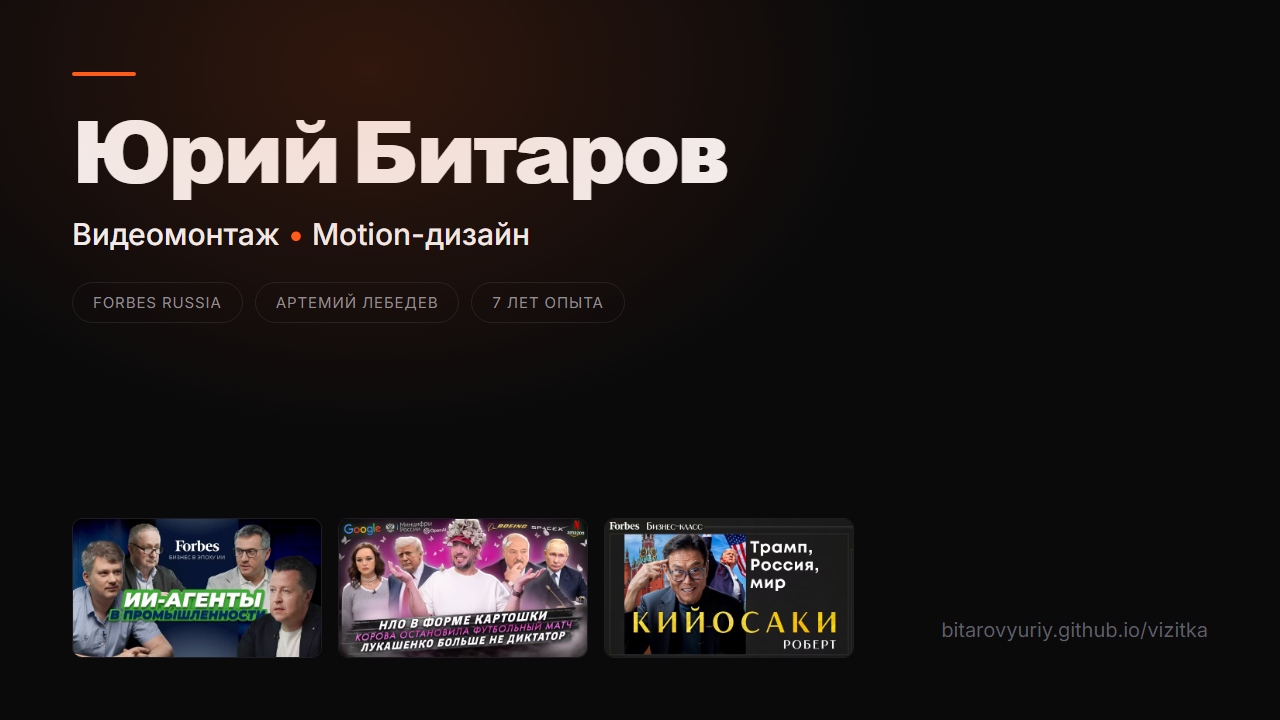
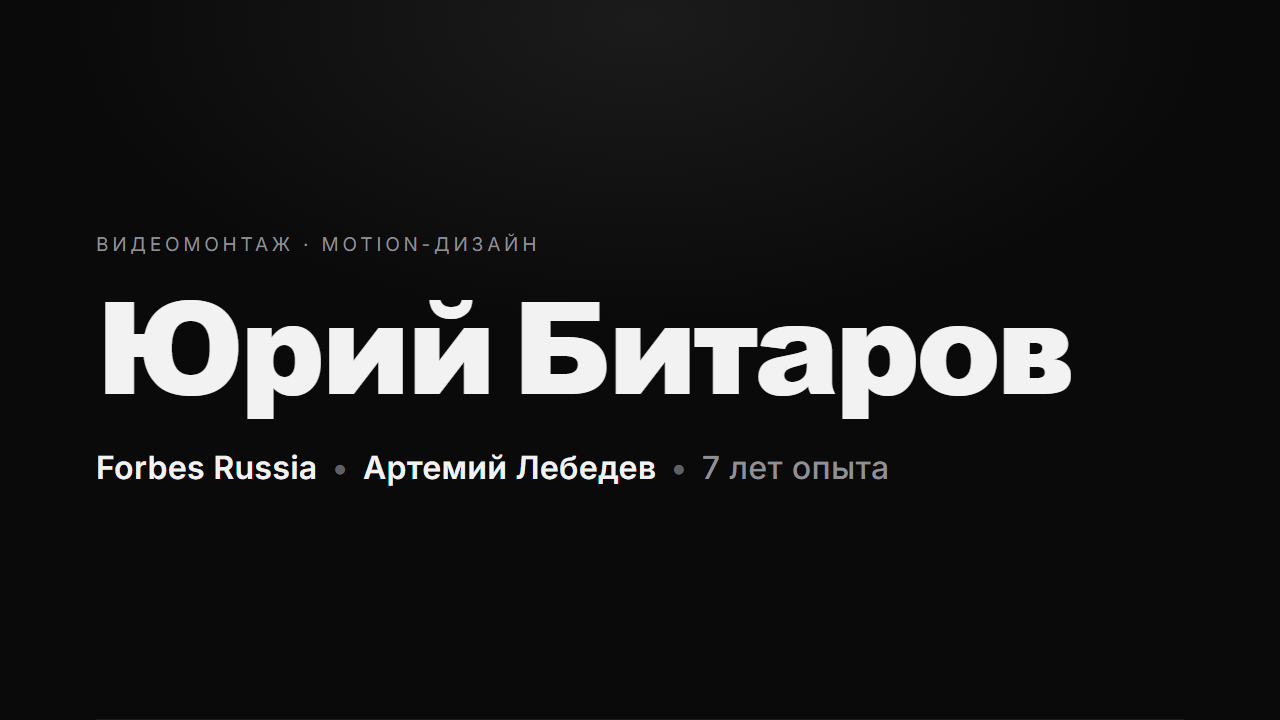
Монохром, секция «Проекты» вместо «Работы», убраны блок «О себе» и строка «Монтирую всё»

diff --git a/index.html b/index.html
@@ -31,14 +31,13 @@
       <div class="hero__text">
         <h1 class="hero__title">Юрий Битаров</h1>
         <p class="hero__roles">Видеомонтаж <span class="dot">•</span> Motion-дизайн</p>
-        <p class="hero__lead">Монтирую всё</p>
         <ul class="hero__facts">
           <li>Forbes Russia</li>
           <li>Артемий Лебедев</li>
           <li>7 лет опыта</li>
         </ul>
         <div class="hero__cta">
-          <a class="btn btn--primary" href="#portfolio"><i class="fa-solid fa-play"></i> Смотреть работы</a>
+          <a class="btn btn--primary" href="#portfolio"><i class="fa-solid fa-play"></i> Смотреть проекты</a>
           <a class="btn btn--ghost" href="#contacts"><i class="fa-solid fa-paper-plane"></i> Связаться</a>
         </div>
       </div>
@@ -46,51 +45,31 @@
       <div class="hero__media">
         <div class="showcase" id="showcase">
           <div class="showcase__stage" id="showcaseStage"></div>
-          <button class="showcase__arrow showcase__arrow--prev" id="showcasePrev" aria-label="Предыдущая работа"><i class="fa-solid fa-chevron-left"></i></button>
-          <button class="showcase__arrow showcase__arrow--next" id="showcaseNext" aria-label="Следующая работа"><i class="fa-solid fa-chevron-right"></i></button>
+          <button class="showcase__arrow showcase__arrow--prev" id="showcasePrev" aria-label="Предыдущий проект"><i class="fa-solid fa-chevron-left"></i></button>
+          <button class="showcase__arrow showcase__arrow--next" id="showcaseNext" aria-label="Следующий проект"><i class="fa-solid fa-chevron-right"></i></button>
           <div class="showcase__dots" id="showcaseDots"></div>
         </div>
       </div>
     </div>
   </header>
 
-  <section class="section about" id="about">
-    <div class="container">
-      <div class="section__head">
-        <h2 class="section__title">О себе</h2>
-      </div>
-      <div class="about__grid">
-        <div class="about__text">
-          <p>Привет! Я <strong>Юрий</strong> — видеомонтажер и motion-дизайнер. Работаю с разными жанрами: музыкальные клипы, рекламные ролики, документальные фильмы, подкасты и интервью.</p>
-          <p>Монтирую для <strong>Forbes Russia</strong> и <strong>Артемия Лебедева</strong>. Веду проект целиком: собираю структуру, чищу звук, делаю графику, титры и цветокоррекцию.</p>
-        </div>
-        <ul class="tools">
-          <li><i class="fa-solid fa-clapperboard"></i> <span>Монтаж интервью и подкастов</span></li>
-          <li><i class="fa-solid fa-wand-magic-sparkles"></i> <span>Shorts, Reels и TikTok</span></li>
-          <li><i class="fa-solid fa-palette"></i> <span>Motion-графика и титры</span></li>
-          <li><i class="fa-solid fa-volume-high"></i> <span>Sound design и чистка звука</span></li>
-        </ul>
-      </div>
-    </div>
-  </section>
-
   <section class="section portfolio" id="portfolio">
     <div class="container">
       <div class="section__head">
-        <h2 class="section__title">Работы</h2>
+        <h2 class="section__title">Проекты</h2>
         <p class="section__note">Forbes Russia, выпуски Артемия Лебедева, интервью и короткие форматы</p>
       </div>
 
       <div class="grid-loader" id="gridLoader">
         <div class="spinner"></div>
-        <p>Загрузка работ...</p>
+        <p>Загрузка проектов...</p>
       </div>
 
       <div class="video-grid" id="videoGrid"></div>
       <p class="grid-message" id="gridMessage" hidden></p>
 
       <noscript>
-        <p class="grid-message">Для показа работ нужен включенный JavaScript: видео лежат в <a href="https://vkvideo.ru/@lebedev">выпусках Лебедева</a> и на <a href="https://www.youtube.com/@ForbesRussia">канале Forbes Russia</a>.</p>
+        <p class="grid-message">Для показа проектов нужен включенный JavaScript: видео лежат в <a href="https://vkvideo.ru/@lebedev">выпусках Лебедева</a> и на <a href="https://www.youtube.com/@ForbesRussia">канале Forbes Russia</a>.</p>
       </noscript>
     </div>
   </section>

diff --git a/style.css b/style.css
@@ -1,6 +1,6 @@
 /* ==========================================================================
    Юрий Битаров — визитка. Один файл, порядок: токены → база → утилиты →
-   hero → секции → карточки → контакты/футер → модалка → адаптив.
+   hero → проекты → контакты/футер → модалка → адаптив.
    ========================================================================== */
 
 /* --- Токены --------------------------------------------------------------- */
@@ -14,9 +14,8 @@
   --text-dim: #8f8f96;
   --text-mute: #5f5f66;
 
-  --accent: #ff5c1a;
-  --accent-soft: rgba(255, 92, 26, 0.12);
-  --accent-line: rgba(255, 92, 26, 0.38);
+  --accent: #f2f2f3;
+  --accent-line: rgba(255, 255, 255, 0.3);
 
   --line: #1e1e22;
   --line-strong: #2b2b30;
@@ -42,7 +41,7 @@
   --fs-2xl: 72px;
 
   --shadow: 0 12px 32px rgba(0, 0, 0, 0.55);
-  --shadow-accent: 0 12px 34px rgba(255, 92, 26, 0.22);
+  --shadow-accent: 0 10px 30px rgba(0, 0, 0, 0.5);
   --ease: cubic-bezier(0.2, 0.7, 0.3, 1);
 }
 
@@ -115,7 +114,7 @@ button { font: inherit; color: inherit; background: none; border: 0; cursor: poi
   color: #0a0a0b;
   box-shadow: var(--shadow-accent);
 }
-.btn--primary:hover { transform: translateY(-2px); box-shadow: 0 16px 40px rgba(255, 92, 26, 0.3); }
+.btn--primary:hover { transform: translateY(-2px); box-shadow: 0 16px 40px rgba(0, 0, 0, 0.55); }
 
 .btn--ghost {
   border-color: var(--line-strong);
@@ -142,7 +141,7 @@ button { font: inherit; color: inherit; background: none; border: 0; cursor: poi
   width: min(900px, 100vw);
   height: 620px;
   transform: translateX(-50%);
-  background: radial-gradient(ellipse at center, rgba(255, 92, 26, 0.09), transparent 68%);
+  background: radial-gradient(ellipse at center, rgba(255, 255, 255, 0.045), transparent 68%);
   pointer-events: none;
 }
 
@@ -168,14 +167,6 @@ button { font: inherit; color: inherit; background: none; border: 0; cursor: poi
 }
 
 .dot { color: var(--accent); }
-
-.hero__lead {
-  margin-top: 22px;
-  max-width: 46ch;
-  font-size: var(--fs-base);
-  line-height: 1.65;
-  color: var(--text-dim);
-}
 
 .hero__facts {
   display: flex;
@@ -326,52 +317,6 @@ button { font: inherit; color: inherit; background: none; border: 0; cursor: poi
   max-width: 62ch;
   font-size: var(--fs-base);
   color: var(--text-dim);
-}
-
-/* --- О себе --------------------------------------------------------------- */
-.about__grid {
-  display: grid;
-  grid-template-columns: 1.3fr 1fr;
-  gap: 48px;
-  margin-top: 36px;
-}
-
-.about__text p {
-  font-size: var(--fs-base);
-  line-height: 1.7;
-  color: var(--text-dim);
-}
-.about__text p + p { margin-top: 18px; }
-.about__text strong { color: var(--text); font-weight: 600; }
-
-.tools {
-  display: grid;
-  gap: 10px;
-}
-
-.tools li {
-  display: flex;
-  align-items: center;
-  gap: 14px;
-  padding: 16px 18px;
-  border: 1px solid var(--line);
-  border-radius: var(--radius);
-  background: var(--card);
-  font-size: var(--fs-base);
-  transition: border-color .25s var(--ease), background-color .25s var(--ease), transform .25s var(--ease);
-}
-.tools li:hover { border-color: var(--accent-line); background: var(--card-hover); transform: translateY(-2px); }
-
-.tools i {
-  display: grid;
-  place-items: center;
-  width: 34px;
-  height: 34px;
-  flex: none;
-  border-radius: var(--radius-sm);
-  background: var(--accent-soft);
-  color: var(--accent);
-  font-size: var(--fs-sm);
 }
 
 /* --- Портфолио ------------------------------------------------------------ */
@@ -629,7 +574,6 @@ button { font: inherit; color: inherit; background: none; border: 0; cursor: poi
   .hero { min-height: 0; padding: 88px 0 64px; }
   .hero__inner { grid-template-columns: 1fr; gap: 40px; }
   .hero__media { order: 2; }
-  .about__grid { grid-template-columns: 1fr; gap: 32px; }
   .video-grid { grid-template-columns: repeat(2, minmax(0, 1fr)); }
 }
 

diff --git a/script.js b/script.js
@@ -1,5 +1,5 @@
 /* ==========================================================================
-   Юрий Битаров — визитка. Скрипт: загрузка работ, витрина избранного,
+   Юрий Битаров — визитка. Скрипт: загрузка проектов, витрина избранного,
    лента портфолио, модалка с плеером, контакты, год в футере.
    ========================================================================== */
 
@@ -44,7 +44,7 @@ let autoplayTimer = null;
 let lastFocused = null;
 let loaderFallback = null;
 
-/* --- Работы --------------------------------------------------------------- */
+/* --- Проекты --------------------------------------------------------------- */
 async function loadVideos() {
   showLoader(true);
   try {
@@ -62,7 +62,7 @@ async function loadVideos() {
     console.warn('Не удалось загрузить videos.json:', err.message);
     videos = [];
     renderGrid(videos);
-    showMessage('Работы не загрузились. Проверь файл <strong>videos.json</strong> — он должен лежать рядом с index.html и быть корректным JSON. Если открываешь страницу прямо с диска, нужен локальный сервер или GitHub Pages.');
+    showMessage('Проекты не загрузились. Проверь файл <strong>videos.json</strong> — он должен лежать рядом с index.html и быть корректным JSON. Если открываешь страницу прямо с диска, нужен локальный сервер или GitHub Pages.');
   } finally {
     showLoader(false);
   }
@@ -88,7 +88,7 @@ function renderGrid(list) {
   const fragment = document.createDocumentFragment();
 
   list.forEach((video, index) => {
-    const title = video.short || video.title || 'Работа';
+    const title = video.short || video.title || 'Проект';
 
     const card = document.createElement('article');
     card.className = 'video-card';
@@ -156,7 +156,7 @@ function buildShowcase(list) {
       const dot = document.createElement('button');
       dot.type = 'button';
       dot.className = 'showcase__dot';
-      dot.setAttribute('aria-label', 'Работа ' + (index + 1));
+      dot.setAttribute('aria-label', 'Проект ' + (index + 1));
       dot.addEventListener('click', () => setSlide(index, true));
       dotsFragment.appendChild(dot);
     }

diff --git a/README.md b/README.md
@@ -3,10 +3,10 @@
 Статичный сайт-портфолио: `index.html` + `style.css` + `script.js` + `videos.json`.
 Хостинг — GitHub Pages: https://bitarovyuriy.github.io/vizitka/
 
-## Как добавить или изменить работу
+## Как добавить или изменить проект
 
-Все работы лежат в `videos.json` — обычный список, порядок в файле = порядок на сайте.
-Витрина в первом экране показывает те же работы по кругу.
+Все проекты лежат в `videos.json` — обычный список, порядок в файле = порядок на сайте.
+Витрина в первом экране показывает те же проекты по кругу.
 
 ```json
 {
@@ -54,14 +54,15 @@ https://bitarovyuriy.github.io/vizitka/
 
 | Файл | Назначение |
 |---|---|
-| `index.html` | разметка: hero, о себе, работы, контакты, футер, модалка |
+| `index.html` | разметка: первый экран, проекты, контакты, футер, модалка |
 | `style.css` | токены (цвета, радиусы, типографика) в самом начале файла |
-| `script.js` | загрузка работ, витрина, модалка с плеером, год в футере |
-| `videos.json` | список работ |
+| `script.js` | загрузка проектов, витрина, модалка с плеером, контакты, год в футере |
+| `videos.json` | список проектов |
 | `covers/` | обложки 16:9 |
 | `og.png` | превью 1280×720 для Telegram и соцсетей |
 | `favicon.svg` | иконка сайта |
 
-Цвета и радиусы меняются в блоке `:root` в начале `style.css` — акцент сейчас `--accent: #ff5c1a`.
+Тема монохромная: акцентного цвета нет, `--accent` — это белый `#f2f2f3` (белая кнопка, активная точка витрины, разделитель ролей).
+Вернуть цвет — поменять два токена в `:root`: `--accent` и `--accent-line`.
 Там же шкала типографики: 12 / 14 / 16 / 20 / 28 / 40 / 72 (`--fs-xs` … `--fs-2xl`).
 Все размеры на странице берутся из этих токенов — произвольных кеглей в файле нет, новые не заводить.
